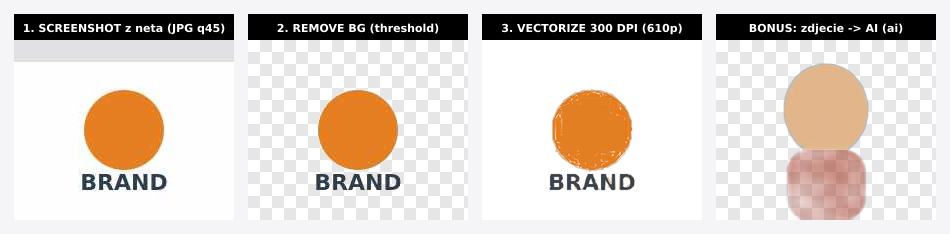
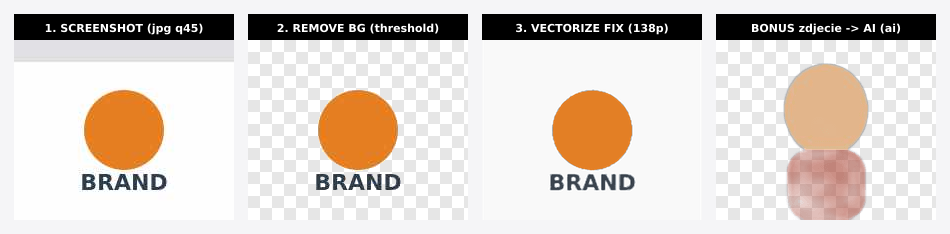
MISJA 5: vectorizer quality fix (Dawid's feedback — ragged edges, over-segmentation)
The vectorize output looked terrible: a simple logo traced into 600–800 paths with
ragged, eaten-away edges — the engine was tracing JPEG compression noise + anti-
aliasing bands as hundreds of separate colors (old "high" = 24 colors, no denoise).

Fixes in vectorizer-engine.js:
- Denoise before tracing: sharp .median(3) + imagetracerjs blurradius — kills JPEG
  speckle so the tracer sees flat color regions.
- Upscale small inputs toward TRACE_MIN(512) with cubic kernel → smooth curves
  instead of coarse, jagged ones on tiny logos.
- Retuned presets: linefilter on, colorquantcycles 4, sensible palette per detail,
  mincolorratio 0.005 (keeps real colors like navy logo text — earlier over-
  aggressive settings bled the text into orange), higher pathomit to drop specks.

Result: smooth circle edge, correct text color, far fewer stray paths. Visual proof
in vec-quality-check.png and the rebuilt realworld-proof.png.
Suites still green: 575 vectorizer + 658 real-world.

https://claude.ai/code/session_011WvGPoNw8FqWJw2fkWHLku

diff --git a/projekty/drs-tools/vectorizer-engine.js b/projekty/drs-tools/vectorizer-engine.js
@@ -22,22 +22,32 @@ const sharp = require('sharp');
 const ImageTracer = require('imagetracerjs');
 
 const TRACE_MAX = 1000;   // max bok obrazu wchodzącego do trace'a (szybkość)
+const TRACE_MIN = 512;    // upscale mniejsze wejścia → gładsze krzywe wektora
 const OUT_MAX = 8000;     // cap wymiaru renderu (bezpieczeństwo pamięci)
 
 function detailOptions(detail, colorMode) {
   const bw = colorMode === 'bw';
-  // imagetracerjs: ltres/qtres = dokładność krzywych, pathomit = pomijaj drobne
-  // ścieżki (szum), numberofcolors = paleta, colorquantcycles = jakość kwantyzacji.
-  const base = bw
-    ? { colorsampling: 0, numberofcolors: 2, mincolorratio: 0 }
-    : { colorsampling: 2, mincolorratio: 0, colorquantcycles: 3 };
-  const byDetail = {
-    low:    { ltres: 1.5, qtres: 1.5, pathomit: 12, numberofcolors: bw ? 2 : 6,  roundcoords: 1 },
-    medium: { ltres: 1.0, qtres: 1.0, pathomit: 8,  numberofcolors: bw ? 2 : 12, roundcoords: 1 },
-    high:   { ltres: 0.5, qtres: 0.5, pathomit: 4,  numberofcolors: bw ? 2 : 24, roundcoords: 2 },
+  // Logos/screenshots have FEW real colors. The old presets used up to 24 colors
+  // with no denoising → every JPEG artifact + anti-aliasing band became its own
+  // path (hundreds of paths, ragged edges). Fix: keep palette small, denoise
+  // (blurradius), drop tiny specks (pathomit + mincolorratio), smooth (linefilter).
+  const base = {
+    scale: 1,
+    strokewidth: 0,
+    linefilter: true,          // smooth out staircase noise on edges
+    roundcoords: 1,
+    colorsampling: bw ? 0 : 2,
+    colorquantcycles: 4,       // better palette → fewer stray colors
+    mincolorratio: 0.005,      // keep REAL colors (logo text) — only drop true speckle
   };
-  return Object.assign({ scale: 1, strokewidth: 0, linefilter: false },
-    base, byDetail[detail] || byDetail.medium);
+  // More colors + lighter blur as detail rises. Too much blur / too few colors
+  // recolors small features (e.g. navy logo text → bled into orange) — avoided here.
+  const byDetail = {
+    low:    { numberofcolors: bw ? 2 : 6,  ltres: 1.0, qtres: 1.0, pathomit: 12, blurradius: 3, blurdelta: 28 },
+    medium: { numberofcolors: bw ? 2 : 10, ltres: 0.7, qtres: 0.7, pathomit: 6,  blurradius: 1, blurdelta: 22 },
+    high:   { numberofcolors: bw ? 3 : 16, ltres: 0.4, qtres: 0.4, pathomit: 3,  blurradius: 0, blurdelta: 18 },
+  };
+  return Object.assign(base, byDetail[detail] || byDetail.medium);
 }
 
 async function vectorize(imageBuffer, options = {}) {
@@ -53,13 +63,19 @@ async function vectorize(imageBuffer, options = {}) {
   // EXIF orientation 5–8 swaps W/H once auto-oriented — match the rotated content.
   if (meta.orientation && meta.orientation >= 5) { const t = srcWidth; srcWidth = srcHeight; srcHeight = t; }
 
-  // .rotate() auto-applies EXIF orientation; downscale only if too big (proporcje)
+  // .rotate() auto-applies EXIF orientation. Trace target: downscale huge inputs,
+  // UPSCALE tiny ones (small logos trace into coarse, jagged curves) toward TRACE_MIN.
   let pipe = sharp(imageBuffer).rotate();
   const longSide = Math.max(srcWidth, srcHeight);
   if (longSide > TRACE_MAX) {
     const s = TRACE_MAX / longSide;
     pipe = pipe.resize(Math.max(1, Math.round(srcWidth * s)), Math.max(1, Math.round(srcHeight * s)));
+  } else if (longSide > 0 && longSide < TRACE_MIN) {
+    const s = TRACE_MIN / longSide;
+    pipe = pipe.resize(Math.max(1, Math.round(srcWidth * s)), Math.max(1, Math.round(srcHeight * s)), { kernel: 'cubic' });
   }
+  // median denoise kills JPEG speckle so the tracer sees flat color regions
+  pipe = pipe.median(3);
   if (colorMode === 'bw') pipe = pipe.grayscale();
   // force 8-bit sRGB RGBA so imagetracerjs reads pixels correctly (CMYK/16-bit/palette safe)
   const { data, info } = await pipe.toColourspace('srgb').ensureAlpha().raw().toBuffer({ resolveWithObject: true });